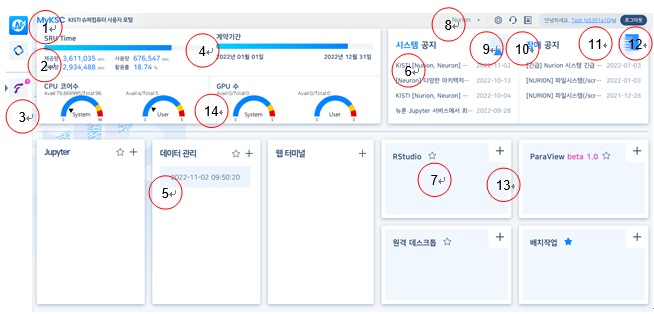
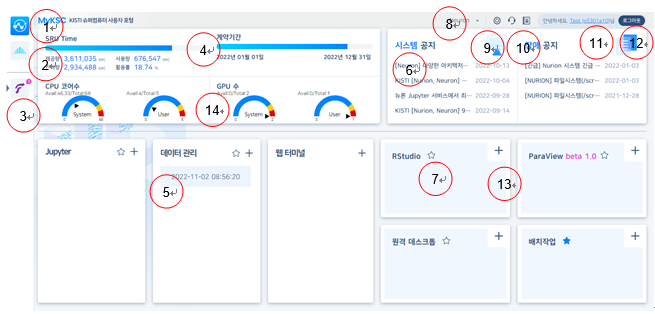
GitBook: [#32] No subject

diff --git a/system/undefined.md b/system/undefined.md
@@ -51,7 +51,21 @@
 14\) System, User별 CPU, GPU 갯수를 표시한다\
 
 
+<div>
+
 <figure><img src="../.gitbook/assets/image1.png" alt=""><figcaption><p>[메인화면]</p></figcaption></figure>
+
+ 
+
+<figure><img src="../.gitbook/assets/20221103_173223 (1).png" alt=""><figcaption></figcaption></figure>
+
+ 
+
+<figure><img src="../.gitbook/assets/image1 (1).png" alt=""><figcaption><p>[메인화면]</p></figcaption></figure>
+
+</div>
+
+
 
 #### 1.2.2. 그래프
 
@@ -69,7 +83,7 @@
 
 &#x20;
 
-<figure><img src="../.gitbook/assets/image2 (1).png" alt=""><figcaption><p>[시스템 사용현황]</p></figcaption></figure>
+<figure><img src="../.gitbook/assets/image2 (2).png" alt=""><figcaption><p>[시스템 사용현황]</p></figcaption></figure>
 
 &#x20;
 
@@ -96,7 +110,7 @@
 \- 실행중인 메뉴 존재시 아이콘 좌측에 실행중 아이콘이 표시된다.\
 \- 실행중인 메뉴 존재시 실행중인 메뉴 갯수를 아이콘 우측 상단에 표시한다.
 
-<figure><img src="../.gitbook/assets/image3.png" alt=""><figcaption><p>[서브메뉴]</p></figcaption></figure>
+<figure><img src="../.gitbook/assets/image3 (1).png" alt=""><figcaption><p>[서브메뉴]</p></figcaption></figure>
 
 
 
@@ -124,7 +138,7 @@
 
 2\)     현재 실행중인 메뉴를 종료한다.
 
-<figure><img src="../.gitbook/assets/image4.png" alt=""><figcaption><p>[메뉴 상태]</p></figcaption></figure>
+<figure><img src="../.gitbook/assets/image4 (1).png" alt=""><figcaption><p>[메뉴 상태]</p></figcaption></figure>
 
 
 
@@ -146,6 +160,8 @@
 
 <figure><img src="../.gitbook/assets/20221103_173223.png" alt=""><figcaption></figcaption></figure>
 
+<figure><img src="../.gitbook/assets/image8 (1).png" alt=""><figcaption></figcaption></figure>
+
 나.   화면 구성
 
 \- Neuron 서버의 큐의 Nodes, CPUs, GPUs(Idle, Alloc, Down)의 자원정보를 확인할 수 있다.
@@ -158,11 +174,9 @@
 
 3\. Filtering Clear : 필터링 상태를 취소한다.
 
-<figure><img src="../.gitbook/assets/image8.png" alt=""><figcaption></figcaption></figure>
+<figure><img src="../.gitbook/assets/image9 (1).png" alt=""><figcaption></figcaption></figure>
 
-&#x20;
-
-&#x20;
+&#x20;&#x20;
 
 #### 1.3.2. JOB 정보
 
@@ -174,11 +188,9 @@
 
 &#x20;
 
-![](file:///C:/Users/GTIDEA\~1/AppData/Local/Temp/msohtmlclip1/01/clip\_image020.jpg)
+<figure><img src="../.gitbook/assets/image10.png" alt=""><figcaption></figcaption></figure>
 
-&#x20;
-
-&#x20;
+&#x20;&#x20;
 
 나. 화면 구성
 
@@ -196,20 +208,7 @@
 
 5\.     스크립트 내용보기 : JobId 컬럼을 클릭하면 실행중인 스크립트 내용을 확인 할 수 있다.
 
-![](file:///C:/Users/GTIDEA\~1/AppData/Local/Temp/msohtmlclip1/01/clip\_image022.jpg)
-
-&#x20;
-
-&#x20;
-
-&#x20;
-
-&#x20;
-
-\
-
-
-&#x20;
+<figure><img src="../.gitbook/assets/image11 (1).png" alt=""><figcaption><p> </p></figcaption></figure>
 
 #### 1.3.3. JOB 생성
 
@@ -251,7 +250,7 @@
 
 ※  기술지원 > 지침서 > 사용법 > 뉴론 > 스케줄러(SLURM)를 통한 작업 실행 문서를 참조s
 
-![](file:///C:/Users/GTIDEA\~1/AppData/Local/Temp/msohtmlclip1/01/clip\_image024.jpg)
+<figure><img src="../.gitbook/assets/image12.png" alt=""><figcaption></figcaption></figure>
 
 &#x20;
 
